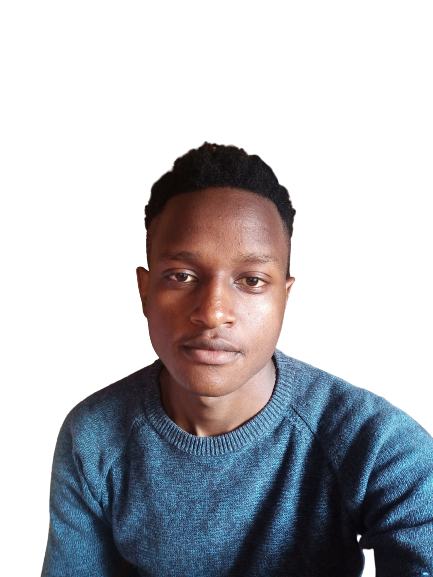
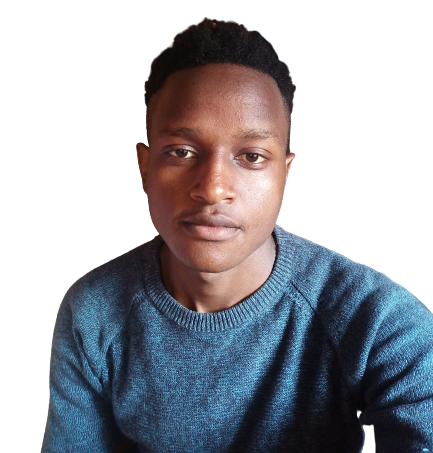
cropped image added to description minor edits for flow format date

diff --git a/content/articles/frontend-pagination-react/index.md b/content/articles/frontend-pagination-react/index.md
@@ -3,29 +3,28 @@ layout: engineering-education
 status: publish
 published: true
 url: /frontend-pagination-react/
-title: Implementing Frontend Pagination in React
-description: This article gives a step by step tutorial on how to add pagination to websites, using React.js.
+title: Implementing Frontend Pagination using React
+description: This article gives a step by step tutorial on how to add pagination to websites, using React.js. This is where the client fetches all the data and stores it in a state.
 author: kevin-murimi
-date: 2021-09-08T00:00:00-06:11
+date: 2021-12-02T00:00:00-15:15
 topics: [Languages]
 excerpt_separator: <!--more-->
 images:
+
   - url: /engineering-education/frontend-pagination-react/hero.jpg
     alt: Implementing Frontend Pagination in React Hero Image
 ---
-
-To improve the user experience and allow easy navigation on a website, most websites do not show all the fetched data on a single web page. Most developers implement pagination that enables the data to be displayed on a sequence of pages. The user can easily navigate from one page to another with the click of a button.
+To improve the user experience and allow easier navigation on a website, most websites do not show all the fetched data on a single web page. Most developers implement pagination that enables the data to be displayed on a sequence of pages. The user can easily navigate from one page to another with the click of a button.
 <!--more-->
+Pagination can be implemented on the server-side or the client-side. On the server-side, the client requests data in groups, for example, the client can request a list of the first ten items from an API or the database. Then, when the user clicks the next button on the webpage, another group of data is requested from the server.
 
-Pagination can be implemented on the server-side or the client-side. On the server-side, the client requests data in groups, for example, the client can request a list of the first ten items from an API or the database. Then when the user clicks the next button on the webpage, another group of data is requested from the server.
-
-In this article, we will take a look at client-side pagination. This is where the client fetches all the data and stores it in a state. Pagination can then be implemented on the front end. We will use React(a JavaScript library for building user interfaces) and we will style our webpage using Tailwind CSS.
+In this article, we will look at client-side pagination. This is where the client fetches all the data and stores it in a state. Pagination can then be implemented on the front end. We will use [React](/engineering-education/search/?q=React) (a JavaScript library used for building user interfaces) and we will style our webpage using [Tailwind CSS](/engineering-education/search/?q=Tailwind%20CSS).
 
 ### Prerequisites
 To be able to follow along, the reader should have:
 - Basic React knowledge.
 - Node.js installed.
-- Basic understanding of the Fetch API
+- Basic understanding of the Fetch API.
 - A code editor and a browser.
 
 #### Goals
@@ -44,7 +43,7 @@ npx create-react-app react-tailwind-pagination
 
 The above command will create your React app.
 
-Run the following commands to `cd` into your project and open it in your code editor, in this case, VS Code.
+Run the following commands to `cd` into your project and open it in your code editor, in this case, we are using VS Code.
 
 ```bash
 cd react-tailwind-pagination
@@ -52,18 +51,19 @@ cd react-tailwind-pagination
 code .
 ```
 
-As we are going to use Tailwind CSS to style our webpage, click [here](https://tailwindcss.com/docs/guides/create-react-app) to get step-by-step instructions on how to install it in your project.
+Since we are going to use Tailwind CSS to style our webpage, click [here](https://tailwindcss.com/docs/guides/create-react-app) to get step-by-step instructions on how to install it in your project.
 
-#### Installing Dependencies
-in this project we will only require one dependency. Use the command below to install it:
+#### Installing dependencies
+In this project we will only require one dependency. 
 
+Use the command below to install it:
 ```bash
 npm i react-loader-spinner
 ```
 
 The above command installs a package that we will use to show the loading animation as the data is being fetched from the API.
 
-#### Getting Started with Pagination
+#### Getting started with pagination
 Open the `App.js` file and modify the code with the one provided below:
 
 ```js
@@ -96,8 +96,7 @@ class App extends Component {
 export default App;
 ```
 
-**Code explanation:**
-
+#### Code explanation
 In the code above, we have defined five initial states as described below:
 
 - `currentPage` - This state will hold the value of the page the client is currently on. The default value is page 1. This state will be continuously updated as the user navigates from one page to the other. 
@@ -105,8 +104,7 @@ In the code above, we have defined five initial states as described below:
 -  `loading` - This state will hold the value of the loading state. It can only take two values, `true` or `false`. If the loading state is true, a loading spinner will be displayed. If it is false, the actual content, i.e the posts, will be displayed.
 - `postsPerPage` - This state will hold the number of posts that will be displayed per page. This can be adjusted to suit a person's needs.
 
-
-#### Fetching the Data
+#### Fetching the data
 To fetch the data, paste the following code under the `constructor()` method:
 
 ```js
@@ -121,15 +119,14 @@ componentDidMount() {
   }
 ```
 
-**Code explanation**:
-
+#### Code explanation
 In the code above, we are fetching the data after the component mounts. We achieve this by use of the `componentDidMount()` method.
 
 When the component mounts, we set the loading state to true by the use of `setState()` method that updates the value of the state.
 
 We then get the data from the `jsonplaceholder` API using the fetch API. After the data has been fetched, we store it in the posts state using `this.setState({ posts: data })`. The loading state is then set to `false`.
 
-#### Displaying the Data on the Webpage
+#### Displaying the data on the webpage
 To display the data on the webpage, we will use the `map()` method. Click [here](https://developer.mozilla.org/en-US/docs/Web/JavaScript/Reference/Global_Objects/Array/map) to learn more about how the map method works.
 
 Paste in the following code in the `return()` section below the `<hr />` tag:
@@ -156,11 +153,10 @@ Paste in the following code in the `return()` section below the `<hr />` tag:
 }
 ```
 
-**Code explanation:**
-
+#### Code explanation
 In the code above, we are using the [ternary operator](https://developer.mozilla.org/en-US/docs/Web/JavaScript/Reference/Operators/Conditional_Operator) to conditionally render our posts. If the loading state is `true`, we are rendering a spinner from the `react-loader-spinner` package that shows that the data is still being fetched. If the loading state is `false`, we are rendering the posts.
 
-#### Implementing Pagination
+#### Implementing pagination
 To implement pagination, paste in the following code the `render()` method:
 
 ```js
@@ -171,13 +167,10 @@ const indexOfFirstPost = indexOfLastPost - this.state.postsPerPage;
 const currentPosts = this.state.posts.slice(indexOfFirstPost, indexOfLastPost);
 ```
 
-**Code explanation:**
+#### Code explanation
+We use the code above to get the `currentPosts`, i.e the posts we want to display on a certain page. To get this, we need to calculate the `indexOfLastPost` that is the last post on a certain page and `indexOfFirstPost` that is the first post on a certain page.
 
-We use the above code to get the `currentPosts`, i.e the posts we want to display on a certain page. To get this, we need to calculate the `indexOfLastPost` that is the last post on a certain page and `indexOfFirstPost` that is the first post on a certain page.
-
-We then use the [`slice()`](https://developer.mozilla.org/en-US/docs/Web/JavaScript/Reference/Global_Objects/Array/slice) array method to set posts we want to show on a certain page.
-
-To only show the `currentPosts()`, go to the part where we render our posts and set the `map()` method to loop on the `currentPosts` array as shown below:
+We then use the [`slice()`](https://developer.mozilla.org/en-US/docs/Web/JavaScript/Reference/Global_Objects/Array/slice) array method to set posts we want to show on a certain page. To only show the `currentPosts()`, go to the part where we render our posts and set the `map()` method to loop on the `currentPosts` array as shown below:
 
 ```js
 currentPosts.map((post, id) => (
@@ -188,9 +181,8 @@ currentPosts.map((post, id) => (
 ))
 ```
 
-#### Implementing Page Numbers
+#### Implementing page numbers
 We now need to implement page numbers that the user will click on to navigate to a certain page. In the `render()` method section, add the following lines of code:
-
 ```js
 const pageNumbers = []
 
@@ -199,9 +191,9 @@ for (let i = 1; i <= Math.ceil(this.state.posts.length / this.state.postsPerPage
 }
 ```
 
-In the code above, we create a constant `pageNumbers` that is an array that will be used to hold the number of pages. We then use `for` loop to loop through the quotient of `(posts.length / postsPerPage)` where the `posts.length` is the total number of posts and the `postsPerPage` is the number of posts on each page. We then push the values obtained from the `for` loop into the  `pageNumbers` array.
+In the code above, we created a constant `pageNumbers` that is an array that will be used to hold the number of pages. We then use a `for` loop to loop through the quotient of `(posts.length / postsPerPage)`.
 
-To display the values in the `pageNumbers`, paste the code below; - it renders the posts:
+The `posts.length` is the total number of posts and the `postsPerPage` is the number of posts on each page. We then push the values obtained from the `for` loop into the  `pageNumbers` array. To display the values in the `pageNumbers`, paste the code below; - it will render the posts:
 
 ```js
 <div className="w-full flex justify-around">
@@ -224,8 +216,9 @@ To display the values in the `pageNumbers`, paste the code below; - it renders t
 
 In the code above, we are using the `map()` method to loop through the `pageNumbers` array and display the page numbers. We are also using conditional rendering to check whether the page number is equal to the current page number. If it is, we are styling it differently to make sure that the user knows which page they are on.
 
-Also, with the click of a certain page number, we are calling the `setPage()` method that we are using to help the user navigate from one page to another. The code for the `setPage()` method is provided below:
+With the click of a certain page number, we are calling the `setPage()` method that we are using to help the user navigate from one page to another. 
 
+The code for the `setPage()` method is provided below:
 ```js
 const setPage = (pageNum) => {
     this.setState({currentPage: pageNum})
@@ -234,7 +227,7 @@ const setPage = (pageNum) => {
 
 The function takes in the `pageNum` as an argument and uses it to update the current page state. After the `currentPage` state is updated, new values `indexOfLastPost`, `indexOfFirstPost` and `currentPosts` are calculated and the page content is updated immediately.
 
-#### Full Code for Pagination
+#### Full code for pagination
 ```js
 import React, { Component } from "react";
 import Loader from "react-loader-spinner"
@@ -324,7 +317,7 @@ class App extends Component {
 export default App;
 ```
 
-#### Running the Project
+#### Running the project
 To run the project, open your terminal and run the following command:
 
 ```bash
@@ -334,9 +327,9 @@ npm start
 This will start a local development server. Go to `127.0.0.1:3000` and you will be able to view your webpage.
 
 ### Conclusion
-This is one way of implementing front-end pagination in react. You can go ahead and modify the code to suit your needs. You can also apply this code to your project.
+This is one way of implementing front-end pagination in react. You can go ahead and modify the code to best suit your needs. You can also practice by applying this code to your project.
 
-Hope you find this tutorial helpful.
+Hope you found this tutorial helpful.
 
 Happy coding!
 
